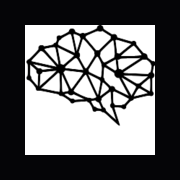
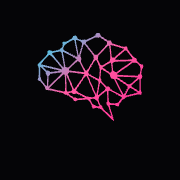
feat: drop Cloud, reposition self-hosted + desktop, ONEBRAIN CI (#35)
- Remove OneBrain Cloud: Cloud.astro -> Open.astro ("Self-Hosted & Open")
  with 2 ways-to-run (self-hosted / desktop soon) + Desktop-notify form
  reusing the existing waitlist endpoint
- Reposition self-hosted (terminal + built-in web UI), Obsidian optional;
  sweep de-Obsidian copy across hero/nav/footer/meta/og/privacy/diagrams
- License surfaces -> MIT OR Apache-2.0
- Brand CI: wordmark lockups render uppercase ONEBRAIN (nav/footer/warp/404/og)
- Diagrams: brain logo replaces emoji (gradient on dark disc, static),
  OBSIDIAN->ONEBRAIN hub, cloud-infra->web UI spoke, vault foundation rename,
  sync->memory
- Favicon: apple-touch-icon + favicon.ico regenerated as gradient brain on dark
- OG card -> primary lockup (ONE white + BRAIN gradient), regenerated og.jpg
- Open section accent -> token cyan; remove dead open-grid class

diff --git a/src/styles/global.css b/src/styles/global.css
@@ -20,7 +20,7 @@
 
 /* Visually hide content while keeping it readable to screen readers and
    search engines. Used inside the Hero h1 so Google indexes a keyword-
-   rich version (`OneBrain — AI thinking partner for Obsidian`) while
+   rich version (`OneBrain — self-hosted AI thinking partner`) while
    the visible h1 keeps the cinematic "UNIFIED INTELLIGENCE" phrase. */
 .sr-only {
   position: absolute;
@@ -344,6 +344,10 @@ main:focus {
   letter-spacing: 0.02em;
   color: rgba(255, 255, 255, 0.92);
   margin-top: 0;
+  /* Wordmark lockup renders all-caps per brand CI (ONEBRAIN). DOM text
+     stays "OneBrain" for SR/SEO. Keeps the warp overlay consistent with
+     the nav/footer wordmark. */
+  text-transform: uppercase;
 }
 .warp-mark-status {
   display: inline-flex;

diff --git a/src/lib/gh-stars.ts b/src/lib/gh-stars.ts
@@ -5,7 +5,7 @@
  * client-side fetch.
  *
  * Returns 0 on any failure (offline build, rate limit, schema break).
- * The Cloud component must hide the badge on 0 — rendering "0 stars"
+ * The Open component must hide the badge on 0 — rendering "0 stars"
  * as social proof is worse than rendering no proof at all.
  *
  * Unauthenticated `api.github.com` is 60 req/hr per IP; CI runners
